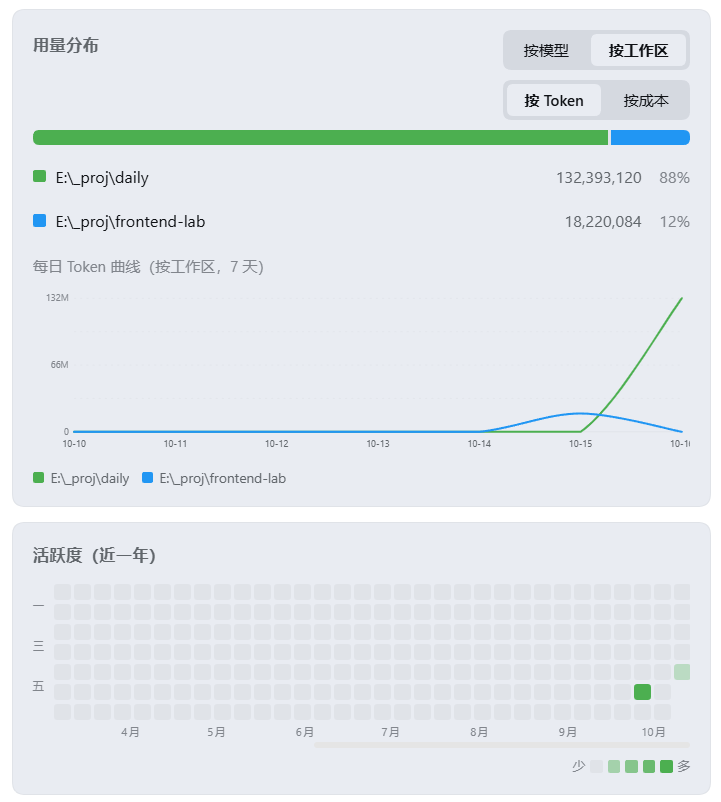
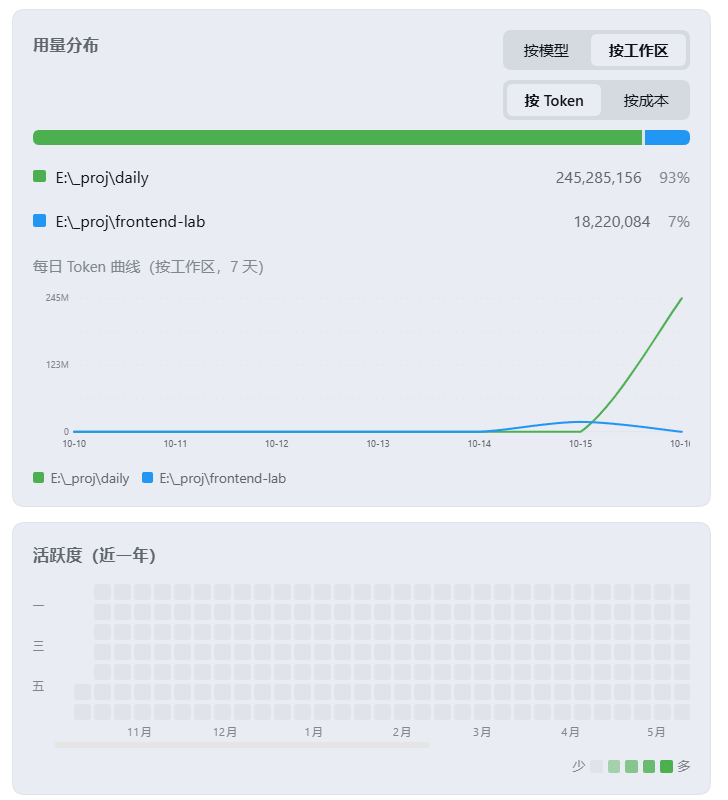
docs: refresh the three screenshots and trim the copy
New captures from the corrected build: the cost split now reads 70/9/21 per cent
with the total matching the sum of the buckets, which the earlier captures could
not show because the price table was wrong. The activity capture also shows the
per-workspace curves and the year heatmap together.

Copy trimmed alongside: the intro no longer says 'the dashboard looks like this'
above an image that needs no introduction, the install line says refresh rather
than refresh the web page, and host half is called a part rather than a side.

diff --git a/README.md b/README.md
@@ -1,10 +1,8 @@
 # dsh-token-dashboard
 
-[![awesome · DSH plugin](https://awesome-dsh-plugin.com/badge.svg)](https://awesome-dsh-plugin.com)
-
 DeepSeek Harness 的用量看板：把**账户余额**、**Token 使用量**和**花费**放在一个页面里，按天、按模型、按工作区看清钱花在哪。
 
-数据全部来自本地 —— 会话日志 + DeepSeek 官方余额接口，不需要额外的云端账号。整个看板长这样：
+数据全部来自本地 —— 会话日志 + DeepSeek 官方余额接口，不需要额外的云端账号。
 
 <img src="docs/screenshot-overview.png" alt="用量看板全貌" width="620">
 
@@ -22,15 +20,13 @@ DeepSeek Harness 的用量看板：把**账户余额**、**Token 使用量**和*
 
 按 DeepSeek 的三档计费**分别算出金额**：缓存命中输入、缓存未命中输入、输出。
 
-三者单价最多差 30 倍，只看总数看不出钱花在哪 —— 比如下面这张图里，缓存命中占了大部分花费，而它恰恰是单价最低的一档。
-
 <img src="docs/screenshot-usage.png" alt="Token 使用量与成本构成" width="560">
 
 计费口径：
 
 - **峰谷价**：高峰为北京时间周一至周五 09:00–12:00、14:00–18:00，其余时段（含周末）减半。判断按事件自身的时间，因此不随查看时间或设备时区变化。
 - **按日期分档计价**：DeepSeek 每次调价记为一个新档位，事件用**它自己那天生效的单价**计算。所以后来调价不会改写之前几天的金额。
-- **这是估算**：插件只读取会话日志里的 token 数，再乘自己的价目表，并不知道 DeepSeek 实际扣了多少。对账请以官方账单为准。
+- **实际为估算**：插件只读取会话日志里的 token 数，再乘自己的价目表，并不知道 DeepSeek 实际扣了多少。对账请以官方账单为准。
 - **未知模型**会被按 Flash 档计价，并在 `/api/token-dashboard/stats` 的 `unpricedModels` 里列出，以免静默算错。
 
 改价：编辑 `lib/index.js` 里的 `PRICE_TIERS`，新增一条 `{ from: "YYYY-MM-DD", models: { ... } }` 即可；不同时段的单价写成 `[高峰, 空闲]` 两个数。官方价目见 [DeepSeek 定价页](https://api-docs.deepseek.com/zh-cn/quick_start/pricing)，发布日期见[更新日志](https://api-docs.deepseek.com/zh-cn/updates)。`PRICING_GAPS` 记录了表里哪些数字不是官方来源。
@@ -41,7 +37,7 @@ DeepSeek Harness 的用量看板：把**账户余额**、**Token 使用量**和*
 
 ### 活跃度
 
-整年热力图（53 周 × 7 天，行对齐真实星期，标注月份）。鼠标移到任意格子上，显示当天日期、Token 与花费。
+整年热力图（53 周 × 7 天）。悬停可显示当天日期、Token 与花费。
 
 下面这张图同时能看到分工作区曲线和整年热力图：
 
@@ -57,7 +53,7 @@ DeepSeek Harness 的用量看板：把**账户余额**、**Token 使用量**和*
 dsh plugin --profile <profile> add @astralux/dsh-token-dashboard
 ```
 
-装完**刷新网页**，看板出现在 **设置 → 用量看板**。
+装完**刷新**，看板出现在 **设置 → 用量看板**。
 
 也可以从 GitHub 或本地目录安装：
 
@@ -76,7 +72,7 @@ dsh plugin --profile <profile> add /本仓库的绝对路径
 
 ## 配置
 
-不用配置即可使用。想改的话，host 半在 `lib/index.js` 里读这几个值：
+不用配置即可使用。想改的话，host 部分在 `lib/index.js` 里读这几个值：
 
 | 项 | 默认 | 说明 |
 |---|---|---|
@@ -90,7 +86,7 @@ dsh plugin --profile <profile> add /本仓库的绝对路径
 
 - **金额是估算**：插件只读会话日志里的 token 数，再乘自己的价目表，并不知道 DeepSeek 实际扣了多少。对账以官方账单为准。
 - **余额显示「未配置 DeepSeek API Key」**：说明你用的是账号态登录而不是 API Key。余额卡片会空着，**Token 与花费统计不受影响**（它们来自本地会话日志）。
-- **没有构建步骤**：两半都是纯 JavaScript，无依赖。改 `lib/client.js` 刷新页面即可，改 `lib/index.js` 需要重启 DSH。
+- **没有构建步骤**：纯 JavaScript，无依赖。改 `lib/client.js` 刷新页面即可，改 `lib/index.js` 需要重启 DSH。
 
 ## 来源
 
